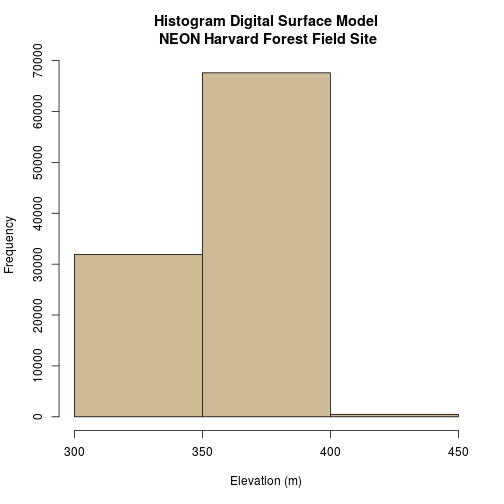
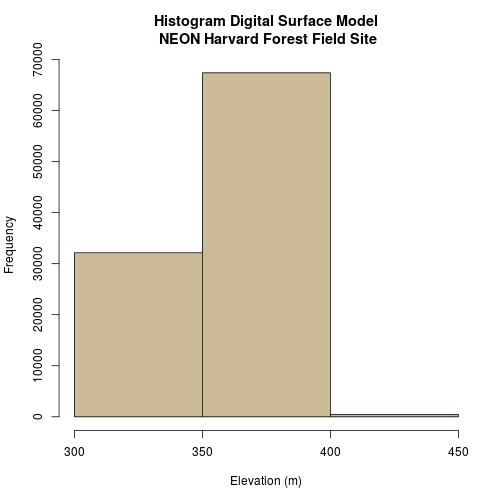
rebuild episodes

diff --git a/_episodes/09-vector-when-data-dont-line-up-crs.md b/_episodes/09-vector-when-data-dont-line-up-crs.md
@@ -108,8 +108,8 @@ We will use the `rgdal` and `raster` libraries in this tutorial.
 
 ~~~
 # load packages
-library(sf)  # for vector work; sp package should always load with rgdal. 
-library (raster)   # for metadata/attributes- vectors or rasters
+library(sf)  # for vector work
+library (raster)   # for raster metadata/attributes 
 
 # set working directory to data folder
 # setwd("pathToDirHere")

diff --git a/_episodes/10-vector-csv-to-shapefile-in-r.md b/_episodes/10-vector-csv-to-shapefile-in-r.md
@@ -94,8 +94,8 @@ We will use the `rgdal` and `raster` libraries in this tutorial.
 
 ~~~
 # load packages
-library(sf)  # for vector work; sp package should always load with rgdal. 
-library(raster)   # for metadata/attributes- vectors or rasters
+library(sf)  # for vector work; 
+library(raster)   # for  raster metadata/attributes
 
 # set working directory to data folder
 # setwd("pathToDirHere")

diff --git a/_episodes/07-vector-shapefile-attributes-in-r.md b/_episodes/07-vector-shapefile-attributes-in-r.md
@@ -79,9 +79,9 @@ tutorial, you can skip this code.
 
 ~~~
 # load packages
-# rgdal: for vector work; sp package should always load with rgdal. 
+# rgdal: for vector work
 library(sf)  
-# raster: for metadata/attributes- vectors or rasters
+# raster: for raster metadata/attributes 
 library (raster)   
 
 # set working directory to data folder

diff --git a/_episodes/08-vector-plot-shapefiles-custom-legend.md b/_episodes/08-vector-plot-shapefiles-custom-legend.md
@@ -72,9 +72,7 @@ location. These latter two we worked with in the
 
 ~~~
 # load packages
-# rgdal: for vector work; sp package should always load with rgdal. 
 library(sf)  
-# raster: for metadata/attributes- vectors or rasters
 library(raster)   
 
 # set working directory to data folder

diff --git a/_episodes/02-raster-plot.md b/_episodes/02-raster-plot.md
@@ -153,7 +153,7 @@ DSMhist$counts
 
 
 ~~~
-[1] 31908 67607   485
+[1] 32141 67395   464
 ~~~
 {: .output}
 
